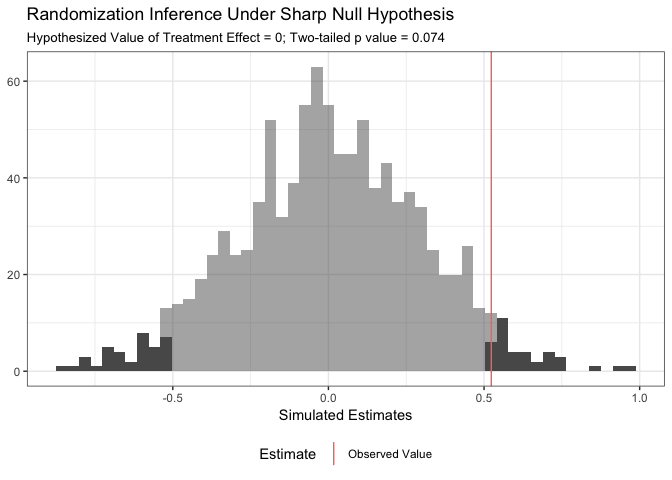
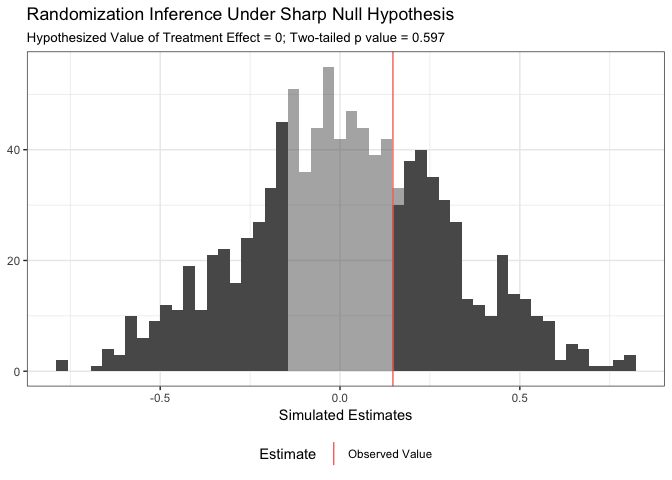
pkgdown

diff --git a/docs/index.html b/docs/index.html
@@ -65,26 +65,26 @@ W &lt;-<span class="st"> </span><span class="kw">runif</span>(N)
 df &lt;-<span class="st"> </span><span class="kw">data.frame</span>(Y, X, Z, W)
 
 ri_out &lt;-
-<span class="kw"><a href="reference/conduct_ri.html">conduct_ri</a></span>(
-<span class="dt">formula =</span> Y ~<span class="st"> </span>Z,
-<span class="dt">declaration =</span> declaration,
-<span class="dt">assignment =</span> <span class="st">"Z"</span>,
-<span class="dt">sharp_hypothesis =</span> <span class="dv">0</span>,
-<span class="dt">data =</span> df
-)
+<span class="st">  </span><span class="kw"><a href="reference/conduct_ri.html">conduct_ri</a></span>(
+    <span class="dt">formula =</span> Y ~<span class="st"> </span>Z,
+    <span class="dt">declaration =</span> declaration,
+    <span class="dt">assignment =</span> <span class="st">"Z"</span>,
+    <span class="dt">sharp_hypothesis =</span> <span class="dv">0</span>,
+    <span class="dt">data =</span> df
+  )
 
 
 <span class="kw">plot</span>(ri_out)</code></pre></div>
 <p><img src="README-unnamed-chunk-3-1.png" width="672"></p>
 <div class="sourceCode"><pre class="sourceCode r"><code class="sourceCode r"><span class="kw">summary</span>(ri_out)
 <span class="co">#&gt;                               estimate </span>
-<span class="co">#&gt;                              0.4937442 </span>
+<span class="co">#&gt;                              0.3208074 </span>
 <span class="co">#&gt;                                p_value </span>
-<span class="co">#&gt;                              0.0910000 </span>
+<span class="co">#&gt;                              0.2160000 </span>
 <span class="co">#&gt;  2.5th Percentile of Null Distribution </span>
-<span class="co">#&gt;                             -0.5791882 </span>
+<span class="co">#&gt;                             -0.4913923 </span>
 <span class="co">#&gt; 97.5th Percentile of Null Distribution </span>
-<span class="co">#&gt;                              0.5671251</span></code></pre></div>
+<span class="co">#&gt;                              0.5085006</span></code></pre></div>
 </div>
   </div>
 

diff --git a/README.md b/README.md
@@ -23,13 +23,13 @@ W <- runif(N)
 df <- data.frame(Y, X, Z, W)
 
 ri_out <-
-conduct_ri(
-formula = Y ~ Z,
-declaration = declaration,
-assignment = "Z",
-sharp_hypothesis = 0,
-data = df
-)
+  conduct_ri(
+    formula = Y ~ Z,
+    declaration = declaration,
+    assignment = "Z",
+    sharp_hypothesis = 0,
+    data = df
+  )
 
 
 plot(ri_out)
@@ -40,11 +40,11 @@ plot(ri_out)
 ``` r
 summary(ri_out)
 #>                               estimate 
-#>                              0.5232297 
+#>                              0.1471318 
 #>                                p_value 
-#>                              0.0740000 
+#>                              0.5970000 
 #>  2.5th Percentile of Null Distribution 
-#>                             -0.5774404 
+#>                             -0.5450577 
 #> 97.5th Percentile of Null Distribution 
-#>                              0.5529152
+#>                              0.5685965
 ```
